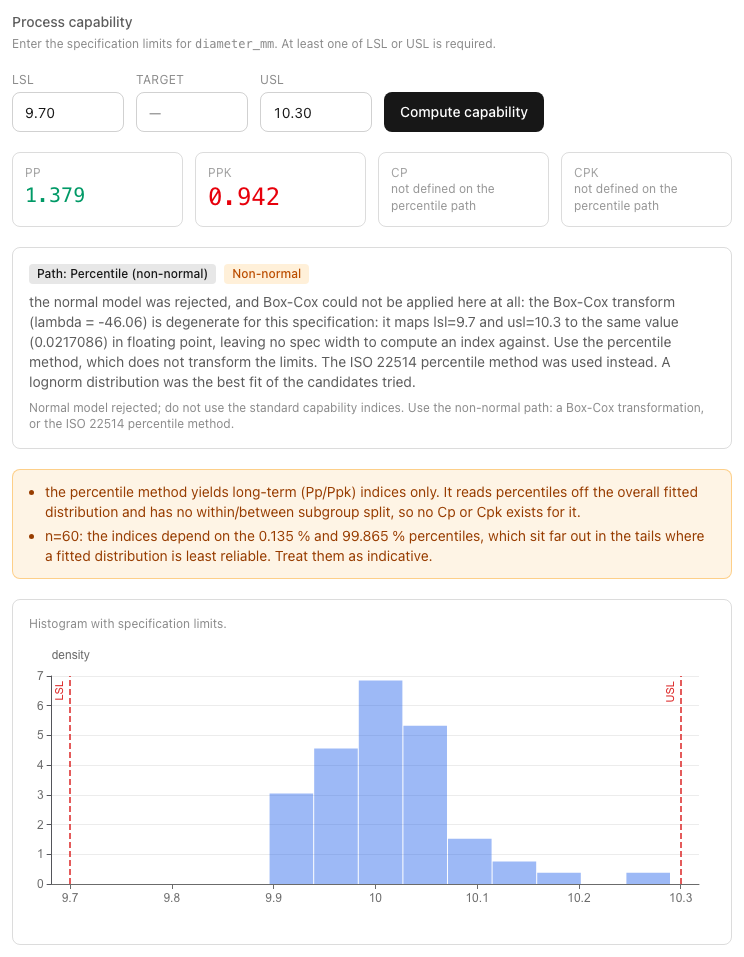
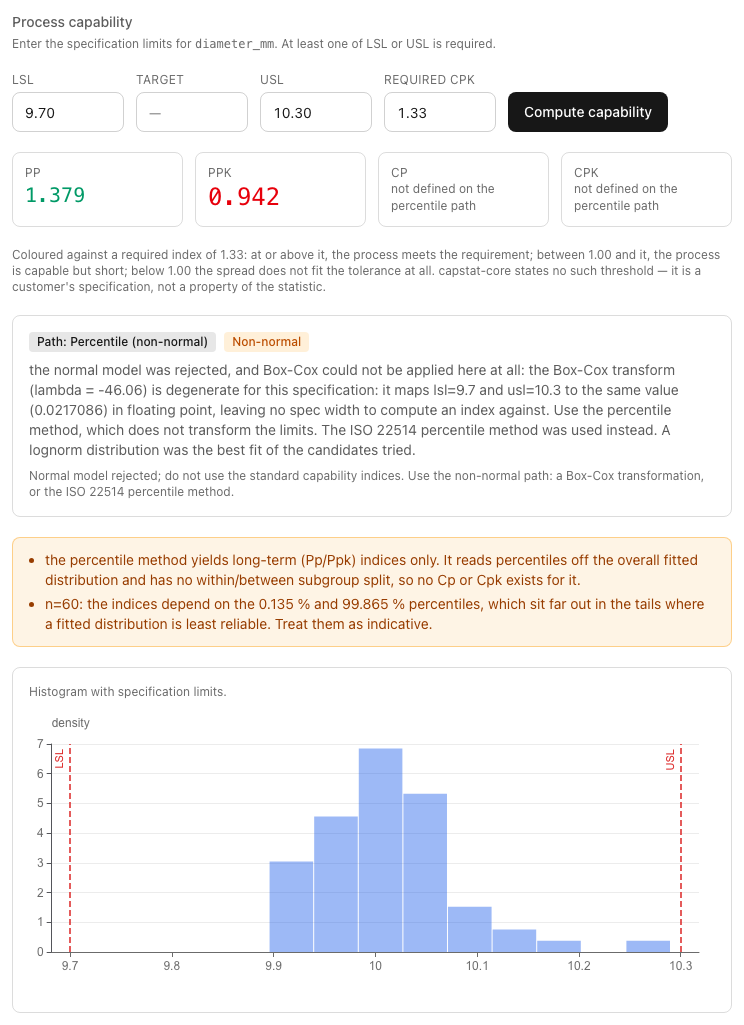
docs(images): re-shoot the README figures against the current UI (T-0079)
They predated T-0073 and T-0075/T-0076, so they showed a UI that no
longer exists: no "Required Cpk" field, no subgroup control, no Phase
badge and no known-limits fieldset.

Captured by the script against the real API and the real core, as always.
Every image was then looked at, because the capture spec's own lesson is
that nothing else catches a chart that rendered empty.

Two of them now double as evidence for the features they postdate: the
capability figure shows Pp 1.379 green against a required index of 1.33
and Ppk 0.942 red below 1.00, and the control chart carries its Phase I
badge beside the baseline fields.

It also puts T-0078 in the README, which is a fair place for it to be
seen: the warning under the chart reads "out of control at [29, 30]"
directly above an axis that labels those same two points 30 and 31.

diff --git a/TASK.md b/TASK.md
@@ -440,6 +440,18 @@
   * Noted while resolving it, and *not* a defect: `watchdog` left the
     environment because uvicorn's `standard` extra now uses `watchfiles`.
     `--reload` still works.
+- T-0079 (2026-09-02) **The README screenshots were re-shot.** They predated
+  T-0073 and T-0075/T-0076, so the figures showed a UI that no longer existed:
+  no "Required Cpk" field, no subgroup control, no Phase badge and no
+  known-limits fieldset. Captured by the script against the real API and core,
+  as always -- and every image was looked at, because the capture spec's own
+  lesson is that nothing but looking catches a chart that rendered empty.
+  Two of them now double as evidence: the capability figure shows Pp 1.379 in
+  green against a required 1.33 and Ppk 0.942 in red below 1.00, and the
+  control chart shows the Phase I badge beside the baseline fields.
+  It also puts T-0078 in the README: the warning under the chart says
+  "out of control at [29, 30]" above an axis that labels those same two points
+  30 and 31.
 
 - **The three deferred features were built 2026-09-02**, in the order the
   warning-codes decision implied (T-0075, T-0076, T-0077). New follow-up:
